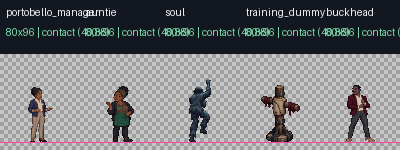
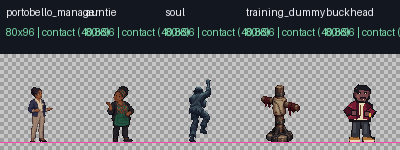
art: revise Buckhead candidate proportions

Changed region(s): [[0.84, 0.56, 0.96, 0.96]]

diff --git a/art_department/ships/art_ship_012/tools/build_candidates.py b/art_department/ships/art_ship_012/tools/build_candidates.py
@@ -22,7 +22,7 @@ ASSETS = {
     "auntie": {"raw": "auntie_raw.png", "file": "auntie_register_neutral_80x96.png", "max": (36, 57), "colors": 18},
     "soul": {"raw": "ocean_soul_raw.png", "file": "ocean_soul_climbing_80x96.png", "max": (35, 64), "colors": 12},
     "training_dummy": {"raw": "training_dummy_raw.png", "file": "training_dummy_combat_80x96.png", "max": (42, 58), "colors": 14},
-    "buckhead": {"raw": "buckhead_raw.png", "file": "buckhead_vampire_neutral_80x96.png", "max": (36, 58), "colors": 17},
+    "buckhead": {"raw": "buckhead_raw.png", "file": "buckhead_vampire_neutral_80x96.png", "max": (36, 58), "colors": 14},
 }
 
 CONTEXTS = {
@@ -40,6 +40,12 @@ COMPARISONS = [
     REPO / "assets/before_the_fame/characters/uncle_sunday/uncle_sunday_neutral_80x96.png",
     REPO / "assets/before_the_fame/characters/velvet/velvet_vantablack_profile_80x96.png",
     REPO / "assets/before_the_fame/characters/bonesworth/sir_bonesworth_hungover_80x96.png",
+]
+BUCKHEAD_COMPARISONS = [
+    ("RICH", REPO / "assets/rich_standing_right.png"),
+    ("MS PATRICE", REPO / "assets/before_the_fame/characters/ms_patrice/ms_patrice_neutral_80x96.png"),
+    ("UNCLE SUNDAY", REPO / "assets/before_the_fame/characters/uncle_sunday/uncle_sunday_neutral_80x96.png"),
+    ("BLLAD33", REPO / "assets/bllad33/masters/bllad33_neutral_candidate_80x96.png"),
 ]
 
 
@@ -96,6 +102,91 @@ def nativeize(raw_path: Path, max_size: tuple[int, int], colors: int) -> Image.I
     return binary_alpha(canvas)
 
 
+def nativeize_buckhead_revision(raw_path: Path) -> Image.Image:
+    """AS12-05R: compact the approved concept into the established cast grammar.
+
+    The retained source concept remains unchanged. Head and body are reduced as
+    separate overlapping masses so the native sprite has a larger head read,
+    shorter limbs, fewer fold/shading cues and chunkier connected clusters.
+    """
+    # Keep the retained render as provenance/concept authority, but redraw the
+    # approved clothing/identity directly on the native grid. This avoids
+    # retaining its fashion-illustration anatomy or soft fold structure.
+    Image.open(raw_path).verify()
+    image = Image.new("RGBA", (80, 96), (0, 0, 0, 0))
+    draw = ImageDraw.Draw(image)
+    outline = (20, 17, 23, 255)
+    hair = (25, 25, 31, 255)
+    skin_dark = (76, 43, 48, 255)
+    skin = (119, 72, 76, 255)
+    skin_light = (151, 91, 85, 255)
+    ox_dark = (70, 18, 35, 255)
+    ox = (119, 28, 51, 255)
+    ox_light = (151, 44, 59, 255)
+    cream = (230, 217, 181, 255)
+    charcoal = (47, 49, 59, 255)
+    charcoal_light = (70, 72, 82, 255)
+    tan_dark = (100, 61, 34, 255)
+    tan = (177, 117, 57, 255)
+    gold = (225, 177, 63, 255)
+
+    # Short, planted legs and unmistakable boat shoes.
+    draw.polygon([(32, 66), (40, 66), (39, 84), (31, 84)], fill=outline)
+    draw.polygon([(40, 66), (48, 67), (51, 84), (43, 84)], fill=outline)
+    draw.polygon([(33, 67), (39, 67), (38, 83), (32, 83)], fill=charcoal)
+    draw.polygon([(41, 67), (47, 68), (49, 83), (43, 83)], fill=charcoal)
+    draw.rectangle((33, 69, 35, 78), fill=charcoal_light)
+    draw.rectangle((44, 70, 46, 79), fill=charcoal_light)
+    draw.rectangle((29, 83, 39, 88), fill=outline)
+    draw.rectangle((42, 83, 54, 88), fill=outline)
+    draw.polygon([(30, 83), (38, 83), (39, 86), (29, 86)], fill=tan)
+    draw.polygon([(43, 83), (50, 83), (54, 86), (43, 86)], fill=tan)
+    draw.rectangle((30, 86, 39, 87), fill=cream)
+    draw.rectangle((44, 86, 53, 87), fill=cream)
+    draw.rectangle((33, 83, 37, 83), fill=tan_dark)
+    draw.rectangle((47, 83, 50, 83), fill=tan_dark)
+
+    # Compact cream polo mass under an oxblood jacket.
+    draw.polygon([(31, 48), (38, 45), (46, 46), (52, 50), (50, 67), (29, 67), (27, 53)], fill=outline)
+    draw.polygon([(34, 48), (39, 47), (45, 48), (47, 65), (34, 65)], fill=cream)
+    draw.polygon([(29, 50), (35, 47), (36, 65), (28, 64), (26, 54)], fill=ox)
+    draw.polygon([(45, 48), (50, 51), (53, 61), (48, 65), (44, 64)], fill=ox_dark)
+    draw.rectangle((29, 52, 31, 62), fill=ox_light)
+    draw.polygon([(36, 47), (40, 52), (39, 63), (36, 65)], fill=ox_dark)
+    draw.polygon([(45, 49), (42, 53), (43, 64), (47, 65)], fill=ox)
+    draw.rectangle((39, 49, 42, 60), fill=cream)
+    draw.rectangle((40, 51, 40, 61), fill=tan_dark)
+
+    # Bent compact arms: confident rather than comedic.
+    draw.polygon([(27, 52), (23, 56), (27, 62), (34, 59), (33, 55)], fill=outline)
+    draw.polygon([(27, 53), (24, 56), (27, 60), (33, 58), (32, 55)], fill=ox_dark)
+    draw.rectangle((31, 56, 36, 61), fill=outline)
+    draw.rectangle((32, 57, 35, 60), fill=skin)
+    draw.polygon([(50, 53), (56, 57), (52, 63), (45, 60), (46, 56)], fill=outline)
+    draw.polygon([(50, 54), (54, 57), (51, 61), (46, 59), (47, 56)], fill=ox)
+    draw.rectangle((44, 57, 49, 62), fill=outline)
+    draw.rectangle((45, 58, 48, 61), fill=skin)
+    draw.rectangle((49, 59, 50, 62), fill=gold)
+
+    # Larger head mass and sparse face construction.
+    draw.polygon([(34, 34), (38, 30), (46, 31), (50, 35), (49, 44), (45, 49), (37, 48), (33, 43)], fill=outline)
+    draw.polygon([(35, 35), (39, 32), (46, 33), (48, 36), (47, 43), (44, 47), (38, 46), (35, 42)], fill=skin)
+    draw.rectangle((37, 32, 47, 35), fill=hair)
+    draw.rectangle((35, 35, 38, 38), fill=hair)
+    draw.rectangle((44, 34, 48, 36), fill=hair)
+    draw.rectangle((34, 38, 35, 41), fill=skin_dark)
+    draw.rectangle((48, 38, 49, 41), fill=skin_dark)
+    draw.rectangle((37, 38, 40, 39), fill=outline)
+    draw.rectangle((44, 38, 46, 39), fill=outline)
+    draw.point((39, 39), fill=cream)
+    draw.point((45, 39), fill=cream)
+    draw.rectangle((40, 43, 45, 44), fill=outline)
+    draw.rectangle((41, 44, 44, 45), fill=skin_dark)
+    draw.point((43, 45), fill=cream)  # restrained fang cue
+    draw.rectangle((37, 41, 38, 43), fill=skin_light)
+    return binary_alpha(image)
+
+
 def font(size: int = 14) -> ImageFont.ImageFont:
     try:
         return ImageFont.truetype("DejaVuSansMono.ttf", size)
@@ -145,6 +236,23 @@ def comparison_board(paths: dict[str, Path]) -> None:
         draw.text((x + 5, y + 8), label[:28], fill=(240, 240, 245), font=font(12))
         draw.line((x, y + label_h + 88 * scale, x + 80 * scale - 1, y + label_h + 88 * scale), fill=(255, 70, 170), width=2)
     board.save(REVIEW / "03_approved_corpus_comparison_4x.png", optimize=True)
+
+
+def buckhead_comparison_board(buckhead: Path, scale: int, filename: str) -> None:
+    entries = BUCKHEAD_COMPARISONS + [("BUCKHEAD REVISION", buckhead)]
+    label_h = 26 if scale == 1 else 40
+    cell_w, cell_h = 80 * scale, 96 * scale + label_h
+    board = Image.new("RGB", (cell_w * len(entries), cell_h), (18, 21, 28))
+    draw = ImageDraw.Draw(board)
+    for index, (label, path) in enumerate(entries):
+        x = index * cell_w
+        bg = checker((80 * scale, 96 * scale), max(4, 4 * scale))
+        art = Image.open(path).convert("RGBA").resize((80 * scale, 96 * scale), Image.Resampling.NEAREST)
+        bg.paste(art, (0, 0), art)
+        board.paste(bg, (x, label_h))
+        draw.text((x + 4, 7), label, fill=(240, 240, 245), font=font(8 if scale == 1 else 12))
+        draw.line((x, label_h + 88 * scale, x + cell_w - 1, label_h + 88 * scale), fill=(255, 70, 170), width=max(1, scale // 2))
+    board.save(REVIEW / filename, optimize=True)
 
 
 def place_actor(scene: Image.Image, actor: Image.Image, x: int, y: int) -> Image.Image:
@@ -207,18 +315,21 @@ def main() -> None:
     paths: dict[str, Path] = {}
     for asset_id, spec in ASSETS.items():
         path = NATIVE / spec["file"]
-        nativeize(RAW / spec["raw"], spec["max"], spec["colors"]).save(path, optimize=True)
+        candidate = nativeize_buckhead_revision(RAW / spec["raw"]) if asset_id == "buckhead" else nativeize(RAW / spec["raw"], spec["max"], spec["colors"])
+        candidate.save(path, optimize=True)
         paths[asset_id] = path
     isolated_board(paths, 1, "01_isolated_native_1x.png")
     isolated_board(paths, 4, "02_isolated_exact_4x.png")
     comparison_board(paths)
     context_board(paths)
     training_context(paths["training_dummy"])
+    buckhead_comparison_board(paths["buckhead"], 1, "06_buckhead_corpus_comparison_native_1x.png")
+    buckhead_comparison_board(paths["buckhead"], 4, "07_buckhead_corpus_comparison_exact_4x.png")
     facts = [technical_fact(asset_id, path) for asset_id, path in paths.items()]
     raw_hashes = [{"path": p.relative_to(REPO).as_posix(), "sha256": sha256(p)} for p in sorted(RAW.glob("*.png"))]
     (SHIP / "CANDIDATE_TECHNICAL_FACTS.json").write_text(json.dumps({"assets": facts}, indent=2) + "\n", encoding="utf-8")
     (SHIP / "RAW_GENERATION_HASHES.json").write_text(json.dumps({"source_renders": raw_hashes}, indent=2) + "\n", encoding="utf-8")
-    print(f"Built {len(paths)} candidates and 5 review boards.")
+    print(f"Built {len(paths)} candidates and 7 review boards.")
 
 
 if __name__ == "__main__":

diff --git a/art_department/ships/art_ship_012/tools/validate_candidates.py b/art_department/ships/art_ship_012/tools/validate_candidates.py
@@ -19,7 +19,13 @@ EXPECTED = {
[5 lines of base64/hex data omitted]
+}
+PARTIAL_PASS_LOCKS = {
[4 lines of base64/hex data omitted]
 }
 
 
@@ -96,10 +102,21 @@ def main() -> int:
             json_failures.append({"path": path.relative_to(REPO).as_posix(), "error": str(exc)})
     report = {
         "ship_id": "ART SHIP 012",
-        "status": "CANDIDATE — HQ REVIEW REQUIRED",
+        "status": "ART SHIP 012 — BUCKHEAD REVISION READY FOR HQ REVIEW",
         "candidate_count": len(candidates),
         "candidate_contracts_pass": all(item["pass"] for item in candidates),
         "candidates": candidates,
+        "hq_partial_pass_locks": PARTIAL_PASS_LOCKS,
+        "hq_partial_pass_bytes_preserved": all(
+            next(item for item in candidates if item["runtime_asset_id"] == asset_id)["sha256"] == expected
+            for asset_id, expected in PARTIAL_PASS_LOCKS.items()
+        ),
+        "buckhead_revision": {
[2 lines of base64/hex data omitted]
+            "concept_redesigned": False,
+            "style_and_proportion_only": True
+        },
         "frozen_assets_checked": frozen_count,
         "frozen_hash_failures": frozen_failures,
         "source_integrity_pass": not frozen_failures,
@@ -118,11 +135,12 @@ def main() -> int:
     }
     overall = all([
         report["candidate_contracts_pass"], report["source_integrity_pass"], report["runtime_boundary_pass"],
-        report["forbidden_boundary_pass"], report["json_pass"], report["review_board_count"] == 5,
+        report["forbidden_boundary_pass"], report["json_pass"], report["review_board_count"] == 7,
+        report["hq_partial_pass_bytes_preserved"],
     ])
     report["overall_pass"] = overall
     (SHIP / "CANDIDATE_VALIDATION_REPORT.json").write_text(json.dumps(report, indent=2) + "\n", encoding="utf-8")
-    lines = ["# ART SHIP 012 candidate SHA-256", "", "Status: CANDIDATE — HQ REVIEW REQUIRED", ""]
+    lines = ["# ART SHIP 012 candidate SHA-256", "", "Status: BUCKHEAD REVISION READY FOR HQ REVIEW", ""]
     lines.extend(f"{item['sha256']}  {item['path']}" for item in candidates)
     (SHIP / "CANDIDATE_SHA256SUMS.txt").write_text("\n".join(lines) + "\n", encoding="utf-8")
     print(json.dumps({"overall_pass": overall, "candidate_contracts_pass": report["candidate_contracts_pass"], "frozen_assets_checked": frozen_count, "frozen_hash_failures": len(frozen_failures), "runtime_files_changed": len(runtime_changes), "review_boards": report["review_board_count"]}, indent=2))

diff --git a/art_department/START_HERE.md b/art_department/START_HERE.md
@@ -8,7 +8,7 @@ This repository is the Art Department's institutional memory. **The project reme
 
 ## Current state
 
-- ART SHIP 012 — OPEN HOLD CLEARANCE is **READY FOR HQ REVIEW** on `art/art_ship_012`. It contains exactly five candidate 80×96 anchors: `portobello_manager`, `auntie`, `soul`, `training_dummy` and `buckhead`. None is approved, frozen or runtime-integrated; PASS/HOLD remains unchanged.
+- ART SHIP 012 — OPEN HOLD CLEARANCE is **BUCKHEAD REVISION READY FOR HQ REVIEW** on `art/art_ship_012`. HQ passed the exact `portobello_manager`, `auntie`, `soul` and `training_dummy` candidate byte streams. Buckhead received the requested style/proportion-only revision and awaits review. Nothing is frozen or runtime-integrated; PASS/HOLD remains unchanged.
 - Runtime/art-integration authority: `origin/claude/art-ship-010-integration` at `8eab30dc790071ec8da98f65311e2b4676fabad0`.
 - ART SHIP 011 is the latest frozen pixel authority. The frozen corpus contains **212 assets**; the Asset Register contains **352 entries**.
 - ART SHIP 004–011 hand off **192 frozen files**. At the current checkpoint, **159 drive runtime**, **9 Ship 011 population-library assets have no runtime assignment**, one historical file is superseded, **12 are handoff/reference sheets**, six approved states have no current scene, four files are mapping-ambiguous, and one prop has no visual surface.
@@ -71,4 +71,4 @@ Only an explicit decision can make a candidate `APPROVED MASTER`; only an explic
 
 At Ship close, update as applicable: `START_HERE.md`, `CURRENT_HANDOFF.md`, the current gap map, `ASSET_REGISTER.json`, `APPROVED_ASSET_INDEX.md`, `APPROVAL_LEDGER.md`, Ship maps/manifests, frozen totals and recommended next priority. Verify frozen hashes, no runtime changes, the zero-upload cold start and a clean scoped tree.
 
-**Current stop point:** ART SHIP 012 is READY FOR HQ REVIEW. Review the five exact candidate byte streams and their native/4×/context evidence; do not self-approve or self-freeze them. ART SHIP 011 remains the latest frozen authority and its nightlife population library remains unassigned. Do not change the 106 PASS / 15 HOLD baseline, merge or deploy from this Art task.
+**Current stop point:** ART SHIP 012 — BUCKHEAD REVISION READY FOR HQ REVIEW. Review the revised Buckhead candidate at native 1× and exact 4× beside the approved corpus. Preserve the four HQ-passed candidate hashes. Do not self-freeze. ART SHIP 011 remains the latest frozen authority. Do not change the 106 PASS / 15 HOLD baseline, merge or deploy.

diff --git a/art_department/APPROVAL_LEDGER.md b/art_department/APPROVAL_LEDGER.md
@@ -2,6 +2,12 @@
 
 This is a standalone transcription/summary of supplied authority, not new approval granted by the implementer. Historical session decisions below were explicitly supplied by Ube as HQ review. Where dates were not supplied, no exact decision timestamp is invented. Listed in decision order.
 
+## ART SHIP 012 — OPEN HOLD CLEARANCE partial review (recorded 2026-09-26)
+
+HQ issued a **PARTIAL PASS** for the submitted ART SHIP 012 candidate set. The exact candidate byte streams for `portobello_manager`, `auntie`, `soul` and `training_dummy` passed and must remain unchanged. Buckhead's character concept passed, but its first candidate required a style/proportion-only revision into the compact approved Rich Alucard character grammar. HQ explicitly prohibited Ship freeze, runtime integration, merge and deployment at this stage.
+
+The revised Buckhead candidate preserves the authorized character concept and replaces only the candidate pixels/provenance/review evidence. It remains **CANDIDATE — HQ REVIEW REQUIRED**. ART SHIP 011 remains the latest frozen authority until a later explicit Ship 012 freeze decision.
+
 1. Art Production Standard v1: **PASS / FROZEN**. Three-sheet essential kit accepted as current production authority. Adult Female Proportion Vocabulary remains TASTE PASS / APPROVED, non-canon vocabulary rather than character masters. Exact inherited record: sources/INHERITED_HQ_APPROVAL.md.
 2. Ogun VD01: UBE TASTE PASS / HQ PASS for Industrial Salon, A / Ivory Host, Rich/Ogun hierarchy and peripheral crowd/open-center direction. Ube reaction: “this shit blew me away yes”. Visual target frozen; study files not final production masters. B/C not production directions.
 3. Art Card 02: **PASS. OGUN MASTER: FROZEN. RAVE INTERIOR MASTER: FROZEN.** Specifically accepted ogun_neutral_80x96.png, rave_interior_270x480.png, supplied speaker separation, masks/registration, one-frame neutral state and exploratory crowd removal. Do not add density merely because architecture is empty. Future change requires HQ delta. The Art decision excluded runtime depth/placement/Stage Contract acceptance.

diff --git a/art_department/ships/art_ship_012/GENERATION_LOG.md b/art_department/ships/art_ship_012/GENERATION_LOG.md
@@ -27,3 +27,13 @@ Create one transparent simple battered fantasy training dummy for Rich Alucard's
 Create one transparent full-body adult male Buckhead vampire who reads instantly as a polished affluent brunch entrepreneur in a combat-capable neutral stance. Self-satisfied Black man in his late thirties; neat close-cropped hair and trimmed mustache; restrained pale-violet vampire cast and tiny fangs; cream knit polo, dark oxblood unstructured jacket, tailored charcoal trousers, unmistakable tan boat shoes with white soles and one gold watch. Hard-edged compact handheld-cartridge pixel art with sparse face marks and broad grouped planes. Funny stakes, never a ridiculous design; no cape, tuxedo, monster anatomy, mimosa prop, recipe, text, shadow or ground plane.
 
 Full structured prompts additionally specified centered isolated composition, generous transparent padding, one shared baseline, no antialiasing, no gradients, no photorealism, no painterly rendering and no watermark.
+
+## AS12-05R — HQ style/proportion revision
+
+HQ passed Buckhead's established character concept and requested only a style/proportion correction. The built-in image editor was attempted against the preserved Buckhead source render but returned an account usage-limit error and produced no file. No API/CLI fallback was used.
+
+The revision was therefore redrawn deterministically at the native grid by `tools/build_candidates.py`, using the preserved source render only as concept/provenance authority. The revision keeps the oxblood jacket, cream polo, fitted charcoal trousers, tan boat shoes, single gold watch, adult male identity, self-satisfied stance and restrained fang cue. It replaces the naturalistic anatomy and soft fold construction with a larger head mass, 59-pixel visible height, short planted legs, compact bent arms, broad connected jacket/trouser clusters, sparse face pixels and 14 opaque colors.
+
[1 lines of base64/hex data omitted]
+
[1 lines of base64/hex data omitted]

diff --git a/art_department/ships/art_ship_012/INTERNAL_VISUAL_REVIEW.md b/art_department/ships/art_ship_012/INTERNAL_VISUAL_REVIEW.md
@@ -1,12 +1,12 @@
 # ART SHIP 012 — Internal Visual Review
 
-**Result:** 5/5 candidates ready for HQ taste review.
+**Result:** four HQ-passed candidate byte streams preserved; revised Buckhead ready for HQ taste review.
 
 - `portobello_manager`: calm, competent and ordinary; badge is the only strong identity detail; no corporate-hell read.
 - `auntie`: warm/assertive register presence, practical everyday outfit and adult silhouette; no costume or poverty/culture gag.
 - `soul`: human climbing silhouette remains readable while its low-contrast muted palette stays subordinate to Rich and Octopus Sensei; no gore.
 - `training_dummy`: compact functional castle-combat object with a clear weighted base and restrained wear; no personhood or overdesign.
-- `buckhead`: oxblood jacket, fitted trouser line, unmistakable boat shoes and single gold watch establish polished brunch-entrepreneur identity; vampire cues remain restrained.
+- `buckhead` revision: compact 34×59 visible envelope, enlarged head/identity mass, short planted limbs, broad oxblood/cream/charcoal clusters, simplified face, 14 opaque colors, unmistakable boat shoes and one gold watch. The brunch-entrepreneur concept remains unchanged and now reads inside the Rich/Ms. Patrice/Uncle Sunday/Bllad33 grammar.
 
 Review evidence:
 
@@ -15,3 +15,5 @@ Review evidence:
 - `review/03_approved_corpus_comparison_4x.png` — candidates beside unchanged approved character/combat anchors.
 - `review/04_frozen_environment_contexts_2x.png` — representative review-only composites in Portobello office, NAIJA MART, ocean floor and Lennox Scare.
 - `review/05_training_dummy_throne_context_1x.png` — representative review-only throne-room composite; final runtime transform remains Engineering-owned.
+- `review/06_buckhead_corpus_comparison_native_1x.png` — revised Buckhead directly beside Rich, Ms. Patrice, Uncle Sunday and Bllad33 at native 1×.
+- `review/07_buckhead_corpus_comparison_exact_4x.png` — the same direct comparison at exact 4× nearest-neighbor.

diff --git a/art_department/CURRENT_OPEN_ART_GAPS.md b/art_department/CURRENT_OPEN_ART_GAPS.md
@@ -8,7 +8,7 @@
 
 ## ART SHIP 012 candidate coverage
 
-ART SHIP 012 supplies five **CANDIDATE — HQ REVIEW REQUIRED** anchors for `portobello_manager`, `auntie`, `soul`, `training_dummy` and `buckhead`. They cover dependencies on seven held surfaces. None is approved, frozen or runtime-integrated, so current PASS/HOLD status does not move. `portobello_wife`, `portobello_kid1` and `portobello_kid2` remain excluded and blocked.
+ART SHIP 012 supplies five candidate anchors for `portobello_manager`, `auntie`, `soul`, `training_dummy` and `buckhead`. HQ passed the first four exact byte streams; Buckhead has a style/proportion-only revision pending HQ review. Nothing is frozen or runtime-integrated, so current PASS/HOLD status does not move. `portobello_wife`, `portobello_kid1` and `portobello_kid2` remain excluded and blocked.
 
 This map uses the live post–Ship 008 Integration Matrix. Historical Rough Complete and pre-integration counts remain provenance only.
 
@@ -109,4 +109,4 @@ Audio dependencies remain outside Art scope.
 
 The Ship 009 forecast remains approximately **111 PASS / 10 HOLD** after its 12 assets and zero-pixel reuse are integrated and QA-accepted. For Ship 010, the rooftop candidate may clear one held screen, moving the current **105 PASS / 16 HOLD** baseline to approximately **106 PASS / 15 HOLD**. The five Portobello screens remain blocked by the four canon-sensitive companion identities and PD-W1-04 review. These are forecasts only; current runtime truth remains **105 PASS / 16 HOLD**.
 
-**Recommended next step:** HQ reviews the five exact ART SHIP 012 candidates. If accepted, record explicit promotion/freeze before any Engineering integration or PASS/HOLD update.
+**Recommended next step:** HQ reviews revised Buckhead. If the Ship is accepted, record explicit promotion/freeze before any Engineering integration or PASS/HOLD update.

diff --git a/art_department/ships/art_ship_012/ART_SHIP.md b/art_department/ships/art_ship_012/ART_SHIP.md
@@ -1,6 +1,6 @@
 # ART SHIP 012 — OPEN HOLD CLEARANCE
 
-**Status:** ART SHIP 012 — READY FOR HQ REVIEW
+**Status:** ART SHIP 012 — BUCKHEAD REVISION READY FOR HQ REVIEW
 
 **Owner:** Art
 
@@ -18,6 +18,8 @@ Supply the five newly authorized OPEN/non-canon-sensitive runtime anchors that r
 
 The package contains exactly five native 80×96 RGBA candidates with binary alpha and contact `(40,88)`. Each has a preserved generated source render, deterministic nativeization record, SHA-256 provenance, Asset Register candidate record, Runtime Demand Map row, Engineering mapping, state definition, 1× evidence, exact 4× nearest-neighbor evidence, approved-corpus comparison and representative review-only frozen-environment composites.
 
+HQ partially passed the Portobello manager, auntie, soul and training dummy exact candidate byte streams. Their hashes remain unchanged. Buckhead's concept passed, but HQ requested a style/proportion-only correction. `AS12-05R` replaces only the Buckhead candidate with a compact native-grid redraw; the character concept, wardrobe, color direction, boat shoes, gold watch and restrained vampire cues remain intact.
+
 ## Immutable boundaries
 
 - No ART SHIP 011 or earlier frozen pixel changed.
@@ -29,4 +31,4 @@ The package contains exactly five native 80×96 RGBA candidates with binary alph
 
 ## Stop point
 
-**ART SHIP 012 — READY FOR HQ REVIEW.** HQ may accept, request revision or reject the exact candidate bytes. Do not self-freeze.
+**ART SHIP 012 — BUCKHEAD REVISION READY FOR HQ REVIEW.** HQ may accept, request revision or reject the exact revised Buckhead bytes. Do not self-freeze.

diff --git a/art_department/ships/art_ship_012/CANDIDATE_VALIDATION_REPORT.md b/art_department/ships/art_ship_012/CANDIDATE_VALIDATION_REPORT.md
@@ -1,17 +1,18 @@
-# ART SHIP 012 — Candidate Validation Report
+# ART SHIP 012 — Buckhead Revision Validation Report
 
-**Result: PASS**
+**Result: PASS — BUCKHEAD REVISION READY FOR HQ REVIEW**
 
-- Native candidates checked: **5/5**.
-- Dimensions: **5/5 at 80×96**.
-- Mode/alpha: **5/5 RGBA with binary alpha `[0,255]`**.
-- Contact: **5/5 opaque contact row at y=88; declared contact `(40,88)`**.
-- Palette limits: **5/5 pass** (11–18 opaque RGB colors).
-- Candidate SHA-256: **5/5 match recorded exact bytes**.
+- HQ partial-pass candidate byte streams preserved: **4/4 exact hashes**.
+- Revised Buckhead: **80×96 RGBA**, binary alpha `[0,255]`, contact `(40,88)`.
+- Revised Buckhead opaque bounds: **34×59** at `[23,30,57,89]`.
+- Revised Buckhead opaque RGB colors: **14**.
[2 lines of base64/hex data omitted]
+- All five current candidate contracts: **PASS**.
 - Pre-existing frozen Asset Register files: **212/212 hashes pass**.
 - Runtime/gameplay files changed: **0**.
 - SEALED/PLAYMAKERS boundary changes: **0**.
 - Ship JSON parse checks: **PASS**.
-- Review boards: **5/5 present**, including native 1× and exact integer 4× evidence.
+- Review boards: **7/7 present**, including dedicated native 1× and exact 4× Buckhead/corpus comparisons.
 
 Approval/freeze/runtime acceptance claimed: **no / no / no**. PASS/HOLD remains **106 / 15**.

diff --git a/art_department/CURRENT_HANDOFF.md b/art_department/CURRENT_HANDOFF.md
@@ -1,6 +1,6 @@
 # Current handoff
 
-**ART SHIP 012 — OPEN HOLD CLEARANCE: READY FOR HQ REVIEW.**
+**ART SHIP 012 — BUCKHEAD REVISION READY FOR HQ REVIEW.**
 
 ## Branch and authority
 
@@ -12,13 +12,13 @@
 
 ## Candidate package
 
-Five of five authorized anchors are present as 80×96 RGBA binary-alpha candidates with contact `(40,88)`:
+Five authorized anchors are present as 80×96 RGBA binary-alpha candidates with contact `(40,88)`. HQ passed the first four exact byte streams; Buckhead is the only revised candidate awaiting review:
 
 - `portobello_manager.neutral`
 - `auntie.register_neutral`
 - `soul.climbing`
 - `training_dummy.combat_neutral`
-- `buckhead.combat_neutral`
+- `buckhead.combat_neutral` — revised style/proportion candidate
 
 All generated sources are preserved. Native exports, source/candidate hashes, provenance, Asset Register candidate records, Runtime Demand Map, Engineering mappings, state definitions, technical facts, five review boards and validation live under `art_department/ships/art_ship_012/`.
 
@@ -36,4 +36,4 @@ No ART SHIP 011 frozen pixel, approved environment, Rich asset, Hookah Rich asse
 
 ## Stop
 
-**STOP. ART SHIP 012 is READY FOR HQ REVIEW. Do not self-freeze, change PASS/HOLD, merge or deploy.**
+**STOP. ART SHIP 012 — BUCKHEAD REVISION READY FOR HQ REVIEW. Do not self-freeze, change PASS/HOLD, merge or deploy.**

diff --git a/art_department/ships/art_ship_012/CANDIDATE_PACKAGE_README.md b/art_department/ships/art_ship_012/CANDIDATE_PACKAGE_README.md
@@ -1,7 +1,7 @@
 # ART SHIP 012 candidate package
 
-Status: **READY FOR HQ REVIEW**. Nothing in this directory is approved or frozen by Art.
+Status: **BUCKHEAD REVISION READY FOR HQ REVIEW**. HQ has passed the other four exact candidate byte streams, but nothing in this directory is frozen by Art.
 
-Use the five PNGs under `candidates/native/characters/` as the exact candidate byte streams. Review `01_isolated_native_1x.png` before enlarged evidence. `02_isolated_exact_4x.png` is nearest-neighbor only. Context boards are review evidence and never environment masters.
+Use the five PNGs under `candidates/native/characters/` as the exact current candidate byte streams. Review revised Buckhead directly in `06_buckhead_corpus_comparison_native_1x.png` and `07_buckhead_corpus_comparison_exact_4x.png`. Context boards are review evidence and never environment masters.
 
 The Runtime Demand Map, Engineering Asset Map, state definitions, source hashes, candidate hashes, technical facts and validation report fully identify the proposed handoff. Runtime integration, PASS/HOLD changes, merge and deployment are excluded.
